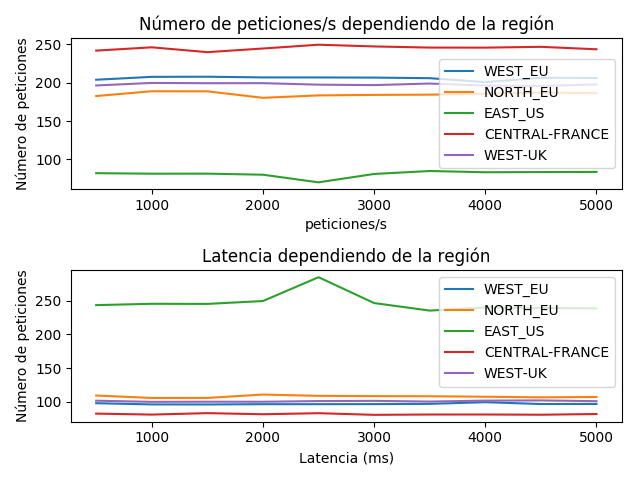
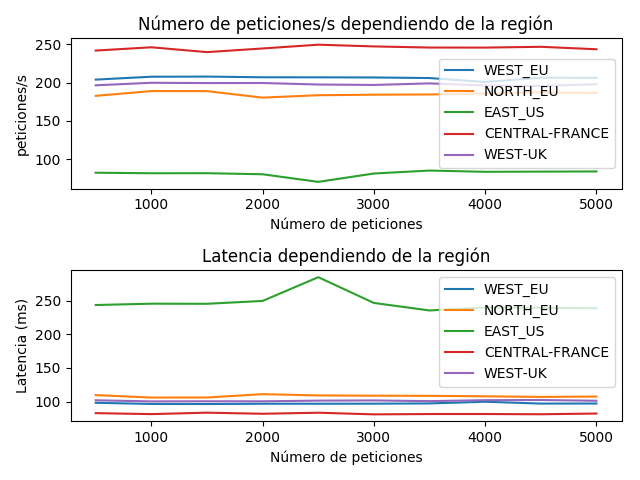
Actualiza el diagrama de estructura de la aplicación en el README. #11

diff --git a/files/hito4/plot_result.py b/files/hito4/plot_result.py
@@ -2,11 +2,11 @@ import numpy as np
 from matplotlib import pyplot as plt
 
 
-file1='/home/jmv74211/Escritorio/abTest_WEST_EU.txt'
-file2='/home/jmv74211/Escritorio/abTest_NORTH_EU.txt'
-file3='/home/jmv74211/Escritorio/abTest_EAST_US.txt'
-file4='/home/jmv74211/Escritorio/abTest_CENTRAL_FRANCE.txt'
-file5='/home/jmv74211/Escritorio/abTest_WEST_UK.txt'
+file1='./abTest_WEST_EU.txt'
+file2='./abTest_NORTH_EU.txt'
+file3='./abTest_EAST_US.txt'
+file4='./abTest_CENTRAL_FRANCE.txt'
+file5='./abTest_WEST_UK.txt'
 
 
 num_peticiones1 = np.loadtxt(file1, delimiter='\t', skiprows=2,usecols=[0])
@@ -42,8 +42,8 @@ plt.plot(num_peticiones4,req_s4, label="CENTRAL-FRANCE")
 plt.plot(num_peticiones5,req_s5, label="WEST-UK")
 
 plt.title("Número de peticiones/s dependiendo de la región")
-plt.xlabel("peticiones/s")
-plt.ylabel("Número de peticiones")
+plt.xlabel("Número de peticiones")
+plt.ylabel("peticiones/s")
 
 plt.legend()
 
@@ -56,8 +56,8 @@ plt.plot(num_peticiones4,lat4, label="CENTRAL-FRANCE")
 plt.plot(num_peticiones5,lat5, label="WEST-UK")
 
 plt.title("Latencia dependiendo de la región")
-plt.xlabel("Latencia (ms)")
-plt.ylabel("Número de peticiones")
+plt.xlabel("Número de peticiones")
+plt.ylabel("Latencia (ms)")
 
 plt.legend()
 

diff --git a/README.md b/README.md
@@ -130,7 +130,7 @@ Este microservicio se encarga de recibir peticiones usando una **[API REST](http
 
 Dicho microservicio está conectado a una base de datos noSQL llamada MongoDB. La siguiente figura ilustra con mayor claridad el flujo de información:  
 
-![Diagrama](https://raw.githubusercontent.com/jmv74211/Proyecto-cloud-computing/master/images/diagrama_estado_hito2.jpg)
+![Diagrama](https://raw.githubusercontent.com/jmv74211/Proyecto-cloud-computing/master/images/estructura_hito4.png)
 
 ---
 
